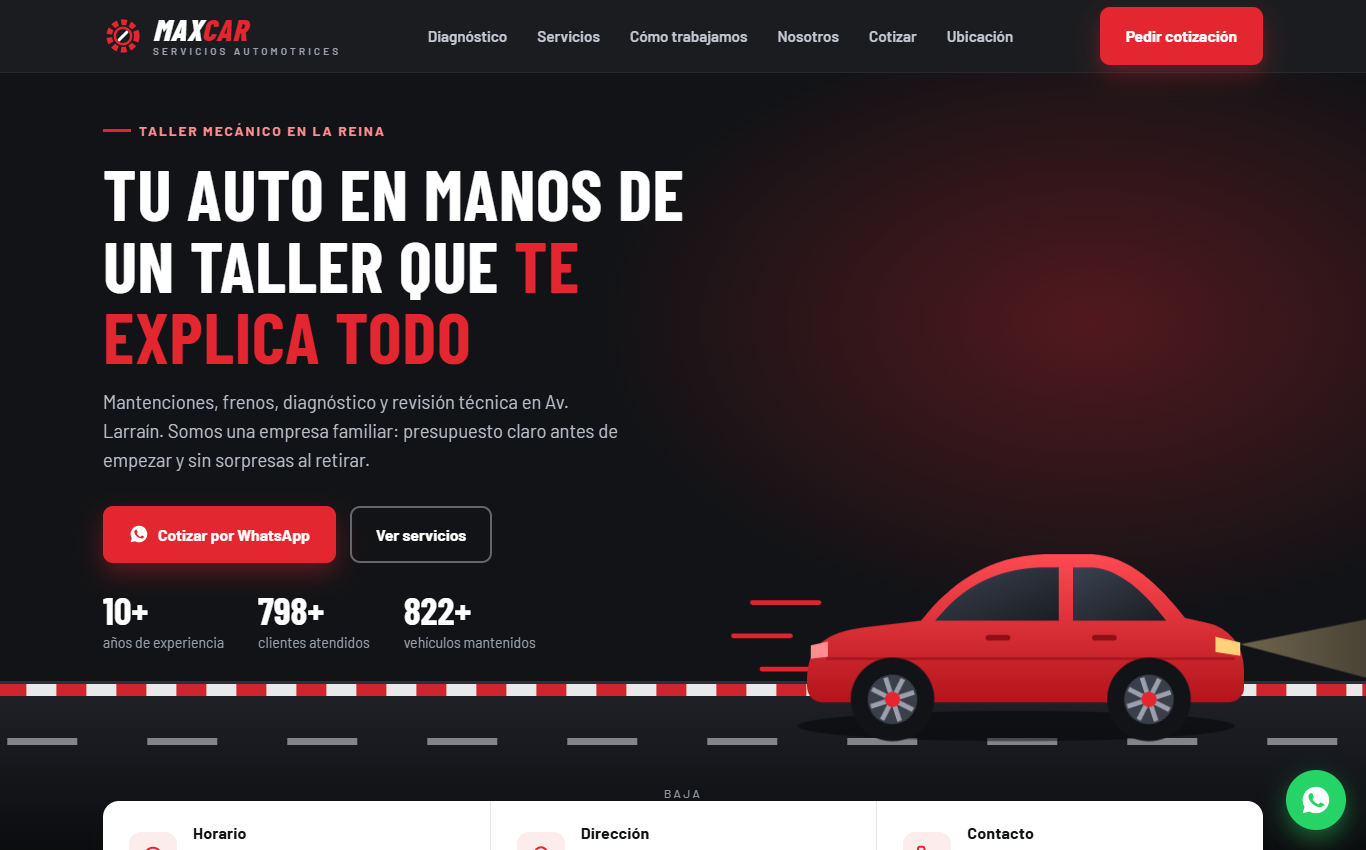
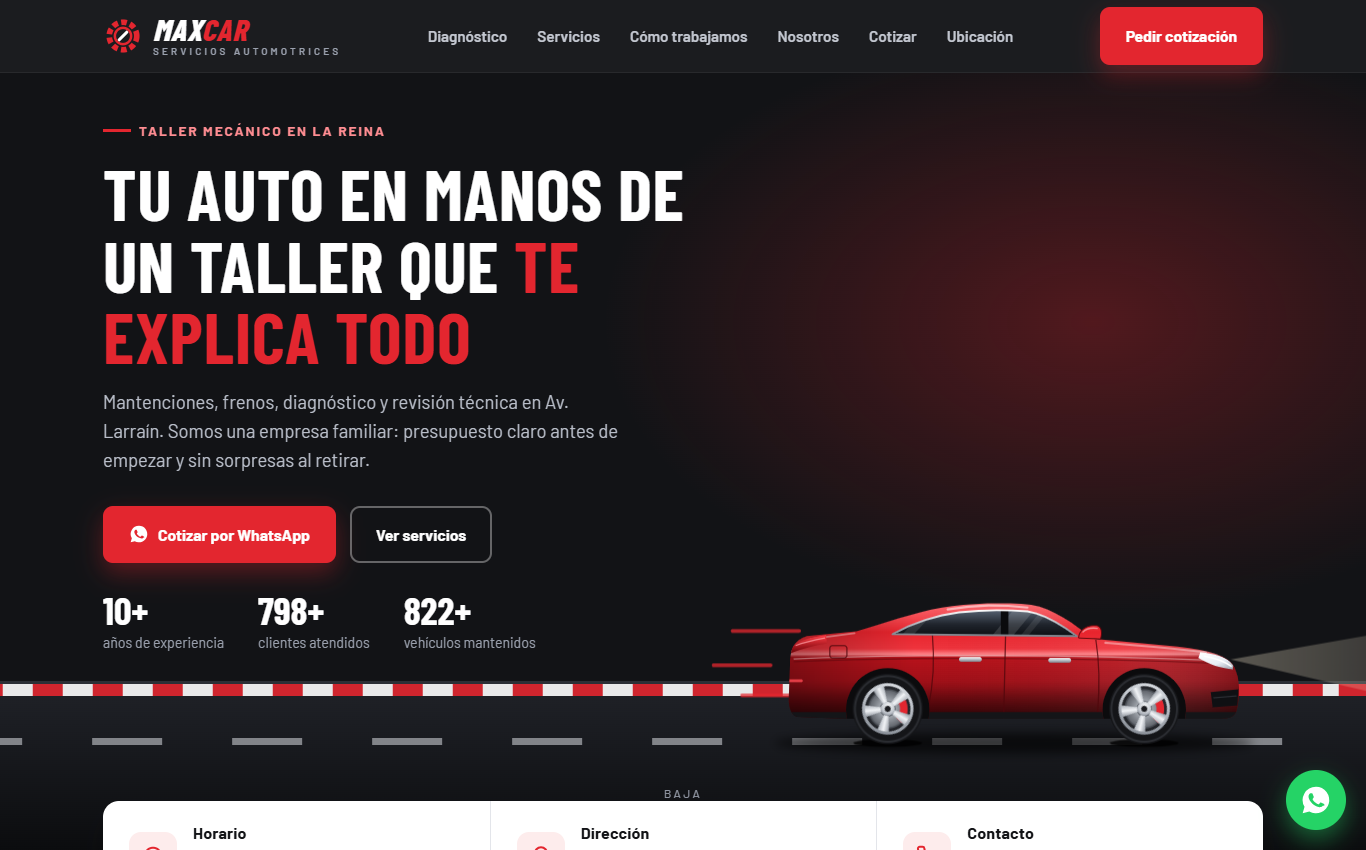
Dibujar un auto realista en la demo de MaxCar
El auto de la portada, del diagnóstico y del camino del proceso pasa a
tener proporciones de sedán, pintura con reflejos, vidrios polarizados,
llantas de aleación y frenos a la vista. Se reubican los puntos del
diagnóstico y se actualizan la imagen Open Graph y las capturas del
comparador.

Changed region(s): [[0.0, 0.6424, 1.0, 0.8871]]

diff --git a/demos/maxcar/index.html b/demos/maxcar/index.html
@@ -20,7 +20,7 @@
   <meta property="og:image:type" content="image/png">
   <meta property="og:image:width" content="1200">
   <meta property="og:image:height" content="630">
-  <meta property="og:image:alt" content="Demo de página web para MaxCar, con un auto rojo ilustrado.">
+  <meta property="og:image:alt" content="Demo de página web para MaxCar, con un auto rojo en la carretera.">
   <meta name="twitter:card" content="summary_large_image">
   <meta name="twitter:title" content="MaxCar: así se vería su nueva página web">
   <meta name="twitter:description" content="Propuesta de BenedettoWebs para el taller MaxCar de La Reina.">
@@ -399,36 +399,101 @@
         </div>
 
         <div class="auto">
-          <svg viewBox="0 0 560 360" role="img" aria-label="Ilustración de un auto rojo andando por la carretera">
+          <svg viewBox="0 0 560 360" role="img" aria-label="Auto rojo andando por la carretera">
             <defs>
-              <linearGradient id="carro" x1="0" y1="0" x2="0" y2="1"><stop offset="0" stop-color="#ff4a52"/><stop offset="1" stop-color="#b3141b"/></linearGradient>
-              <linearGradient id="vidrio" x1="0" y1="0" x2="1" y2="1"><stop offset="0" stop-color="#3a4250"/><stop offset="1" stop-color="#1a1d23"/></linearGradient>
-              <linearGradient id="haz" x1="0" y1="0" x2="1" y2="0"><stop offset="0" stop-color="#ffe2a0" stop-opacity=".55"/><stop offset="1" stop-color="#ffe2a0" stop-opacity="0"/></linearGradient>
+              <linearGradient id="h-pintura" gradientUnits="userSpaceOnUse" x1="0" y1="166" x2="0" y2="292">
+                <stop offset="0" stop-color="#ff7076"/><stop offset=".26" stop-color="#e8242d"/><stop offset=".4" stop-color="#ef343d"/>
+                <stop offset=".445" stop-color="#ff8287"/><stop offset=".47" stop-color="#b8121b"/><stop offset=".72" stop-color="#9a0f17"/><stop offset="1" stop-color="#4a0509"/>
+              </linearGradient>
+              <linearGradient id="h-costado" x1="0" y1="0" x2="1" y2="0">
+                <stop offset="0" stop-color="#000" stop-opacity=".32"/><stop offset=".3" stop-color="#000" stop-opacity="0"/>
+                <stop offset=".72" stop-color="#fff" stop-opacity=".06"/><stop offset="1" stop-color="#000" stop-opacity=".25"/>
+              </linearGradient>
+              <linearGradient id="h-bajo" x1="0" y1="0" x2="0" y2="1"><stop offset="0" stop-color="#000" stop-opacity="0"/><stop offset="1" stop-color="#000" stop-opacity=".45"/></linearGradient>
+              <linearGradient id="h-vidrio" x1="0" y1="0" x2="0" y2="1"><stop offset="0" stop-color="#55606f"/><stop offset=".55" stop-color="#1f242c"/><stop offset="1" stop-color="#0c0e12"/></linearGradient>
+              <linearGradient id="h-cromo" x1="0" y1="0" x2="0" y2="1"><stop offset="0" stop-color="#fff"/><stop offset=".5" stop-color="#b9bec6"/><stop offset="1" stop-color="#7d838c"/></linearGradient>
+              <linearGradient id="h-faro" x1="0" y1="0" x2="1" y2="1"><stop offset="0" stop-color="#fff"/><stop offset=".6" stop-color="#e9eef5"/><stop offset="1" stop-color="#9aa3af"/></linearGradient>
+              <linearGradient id="h-trasera" x1="0" y1="0" x2="0" y2="1"><stop offset="0" stop-color="#ff3c45"/><stop offset="1" stop-color="#6a0006"/></linearGradient>
+              <radialGradient id="h-llanta" cx=".4" cy=".35" r=".75"><stop offset="0" stop-color="#fafbfc"/><stop offset=".6" stop-color="#c3c8cf"/><stop offset="1" stop-color="#7c828b"/></radialGradient>
+              <linearGradient id="h-rayo" x1="0" y1="0" x2="1" y2="0"><stop offset="0" stop-color="#8b919a"/><stop offset=".5" stop-color="#f1f3f6"/><stop offset="1" stop-color="#a7adb5"/></linearGradient>
+              <radialGradient id="h-disco"><stop offset=".45" stop-color="#9ba0a7"/><stop offset="1" stop-color="#5d6168"/></radialGradient>
+              <clipPath id="h-recorte"><path d="M70 288 C62 286 60 276 61 262 L62 234 C62 217 66 207 80 203 L132 198 C160 190 192 178 222 173 C250 168 290 167 316 170 C340 174 360 190 382 206 L470 214 C505 218 524 224 530 236 C536 248 536 266 532 282 C530 288 524 290 516 290 L478 290 A44 44 0 1 0 392 290 L208 290 A44 44 0 1 0 122 290 Z"/></clipPath>
+              <clipPath id="h-cristal"><path d="M170 201 C192 189 216 181 240 178 C262 176 292 175 312 177 C330 180 348 191 364 203 Z"/></clipPath>
+              <filter id="h-difuso" x="-20%" y="-300%" width="140%" height="700%"><feGaussianBlur stdDeviation="5"/></filter>
+              <linearGradient id="h-haz" x1="0" y1="0" x2="1" y2="0"><stop offset="0" stop-color="#fff3d6" stop-opacity=".5"/><stop offset="1" stop-color="#fff3d6" stop-opacity="0"/></linearGradient>
             </defs>
-            <path class="luz" d="M536 214 L 860 150 L 860 300 Z" fill="url(#haz)"/>
-            <g class="lineas" stroke="#e3262f" stroke-width="5" stroke-linecap="round" opacity=".7">
-              <path d="M20 170h70M0 205h60M30 240h50"/>
-            </g>
-            <ellipse cx="300" cy="300" rx="230" ry="16" fill="#000" opacity=".45"/>
+            <path class="luz" d="M526 230 L 880 168 L 880 312 Z" fill="url(#h-haz)"/>
+            <g class="lineas" stroke="#e3262f" stroke-width="4" stroke-linecap="round" opacity=".7"><path d="M10 200h70M-10 236h60M20 268h50"/></g>
+            <ellipse cx="298" cy="318" rx="252" ry="11" fill="#000" opacity=".6" filter="url(#h-difuso)"/>
+            <ellipse cx="165" cy="318" rx="36" ry="4" fill="#000" opacity=".8"/><ellipse cx="435" cy="318" rx="36" ry="4" fill="#000" opacity=".8"/>
             <g class="carroceria">
-            <!-- Carrocería -->
-            <path d="M80 250 C 80 215, 100 200, 140 195 L 200 188 C 230 150, 270 120, 330 118 L 380 118 C 420 120, 450 150, 478 185 L 500 190 C 525 195, 540 215, 540 240 L 540 258 C 540 268, 532 274, 522 274 L 96 274 C 86 274, 80 266, 80 256 Z" fill="url(#carro)"/>
-            <path d="M215 188 C 240 156, 275 134, 325 132 L 345 132 L 345 188 Z" fill="url(#vidrio)"/>
-            <path d="M360 132 L 380 132 C 410 134, 435 158, 458 188 L 360 188 Z" fill="url(#vidrio)"/>
-            <path d="M100 228 H530" stroke="#8f0f15" stroke-width="3" opacity=".6"/>
-            <rect x="380" y="203" width="26" height="6" rx="3" fill="#8f0f15"/>
-            <rect x="268" y="203" width="26" height="6" rx="3" fill="#8f0f15"/>
-            <path d="M510 205 l26 6 v14 l-26 -4z" fill="#ffd27a"/>
-            <path d="M84 214 l18 -4 v16 l-18 2z" fill="#ff8d92"/>
+              <path d="M119.7 290 A46 46 0 1 1 210.3 290 Z" fill="#0b0b0d"/><path d="M389.7 290 A46 46 0 1 1 480.3 290 Z" fill="#0b0b0d"/>
+              <path d="M70 288 C62 286 60 276 61 262 L62 234 C62 217 66 207 80 203 L132 198 C160 190 192 178 222 173 C250 168 290 167 316 170 C340 174 360 190 382 206 L470 214 C505 218 524 224 530 236 C536 248 536 266 532 282 C530 288 524 290 516 290 L478 290 A44 44 0 1 0 392 290 L208 290 A44 44 0 1 0 122 290 Z" fill="url(#h-pintura)"/>
+              <g clip-path="url(#h-recorte)">
+                <rect x="40" y="160" width="510" height="140" fill="url(#h-costado)"/>
+                <rect x="40" y="250" width="510" height="42" fill="url(#h-bajo)"/>
+                <path d="M66 227 C180 222 360 222 520 229" fill="none" stroke="#fff" stroke-opacity=".4" stroke-width="1.4"/>
+                <path d="M66 230 C180 225 360 225 520 232" fill="none" stroke="#5c060b" stroke-opacity=".55" stroke-width="1.4"/>
+                <path d="M228 175 C258 170 290 170 312 173" fill="none" stroke="#fff" stroke-opacity=".55" stroke-width="2.2" stroke-linecap="round"/>
+                <path d="M394 210 C430 213 468 216 500 220" fill="none" stroke="#fff" stroke-opacity=".4" stroke-width="2.2" stroke-linecap="round"/>
+                <path d="M84 206 L130 200" stroke="#fff" stroke-opacity=".35" stroke-width="2" stroke-linecap="round"/>
+                <g fill="none" stroke="#4f050a" stroke-opacity=".75" stroke-width="1.4">
+                  <path d="M384 207 C388 232 388 258 386 284"/>
+                  <path d="M289 203 L287 290"/>
+                  <path d="M212 201 C214 225 214 248 208 278"/>
+                  <rect x="104" y="213" width="18" height="13" rx="3"/>
+                </g>
+                <path d="M65 214 C70 208 82 205 100 202 L101 211 C88 213 76 216 63 221 Z" fill="url(#h-trasera)"/>
+                <path d="M68 213 C78 209 88 207 99 205" stroke="#ff9aa0" stroke-width="1.2" fill="none" opacity=".8"/>
+                <path d="M494 220 C508 221 522 225 529 233 L528 238 C516 237 503 233 492 226 Z" fill="url(#h-faro)"/>
+                <path d="M498 224 C510 226 520 230 527 235" stroke="#fff" stroke-width="1.6" fill="none"/>
+                <path d="M505 262 L534 259 L533 276 L507 278 Z" fill="#0f1013"/>
+                <path d="M508 268 L532 266" stroke="#2c2f35" stroke-width="1.2"/>
+                <rect x="40" y="283" width="510" height="10" fill="#141518"/>
+                <path d="M62 250 L74 250" stroke="#ff4a52" stroke-width="3" stroke-linecap="round" opacity=".8"/>
+              </g>
+              <path d="M170 201 C192 189 216 181 240 178 C262 176 292 175 312 177 C330 180 348 191 364 203 Z" fill="url(#h-vidrio)"/>
+              <g clip-path="url(#h-cristal)" fill="#fff">
+                <path d="M300 172 L322 172 L294 206 L272 206 Z" opacity=".13"/>
+                <path d="M330 172 L338 172 L310 206 L302 206 Z" opacity=".09"/>
+                <path d="M198 182 L210 182 L188 206 L176 206 Z" opacity=".1"/>
+              </g>
+              <rect x="284" y="170" width="8" height="40" fill="#0a0b0d" clip-path="url(#h-cristal)"/>
+              <path d="M170 201 C192 189 216 181 240 178 C262 176 292 175 312 177 C330 180 348 191 364 203 Z" fill="none" stroke="url(#h-cromo)" stroke-width="2" stroke-linejoin="round"/>
+              <rect x="334" y="226" width="24" height="5" rx="2.5" fill="url(#h-cromo)"/>
+              <rect x="240" y="225" width="24" height="5" rx="2.5" fill="url(#h-cromo)"/>
+              <path d="M366 205 C366 197 374 191 385 192 C390 193 391 199 389 206 Z" fill="url(#h-pintura)" stroke="#5c060b" stroke-width="1"/>
+              <path d="M370 199 C374 195 380 194 386 195" stroke="#fff" stroke-opacity=".45" stroke-width="1.4" fill="none"/>
             </g>
-            <!-- Ruedas -->
             <g>
-              <circle cx="170" cy="272" r="44" fill="#121316"/>
-              <g class="rueda"><circle cx="170" cy="272" r="26" fill="#3a3f49"/><path d="M170 248v48M146 272h48M153 255l34 34M187 255l-34 34" stroke="#9aa0ad" stroke-width="5"/><circle cx="170" cy="272" r="8" fill="#e3262f"/></g>
+              <circle cx="165" cy="282" r="37" fill="#141518"/>
+              <circle cx="165" cy="282" r="34.5" fill="none" stroke="#2b2d32" stroke-width="2"/>
+              <circle cx="165" cy="282" r="27" fill="#24262b"/>
+              <circle cx="165" cy="282" r="20" fill="url(#h-disco)" stroke="#4a4e55" stroke-width="1.5"/>
+              <circle cx="165" cy="282" r="8" fill="#3b3f46"/>
+              <path d="M179.85 267.15 A21 21 0 0 1 179.85 296.85 L174.19 291.19 A13 13 0 0 0 174.19 272.81 Z" fill="#e3262f"/>
+              <g class="rueda"><g transform="translate(165 282)">
+                <circle r="27" fill="transparent"/>
+                <path transform="rotate(0)" d="M-2.4 -7 L-6.5 -24.5 Q0 -26.5 6.5 -24.5 L2.4 -7 Z" fill="url(#h-rayo)"/><path transform="rotate(72)" d="M-2.4 -7 L-6.5 -24.5 Q0 -26.5 6.5 -24.5 L2.4 -7 Z" fill="url(#h-rayo)"/><path transform="rotate(144)" d="M-2.4 -7 L-6.5 -24.5 Q0 -26.5 6.5 -24.5 L2.4 -7 Z" fill="url(#h-rayo)"/><path transform="rotate(216)" d="M-2.4 -7 L-6.5 -24.5 Q0 -26.5 6.5 -24.5 L2.4 -7 Z" fill="url(#h-rayo)"/><path transform="rotate(288)" d="M-2.4 -7 L-6.5 -24.5 Q0 -26.5 6.5 -24.5 L2.4 -7 Z" fill="url(#h-rayo)"/>
+                <circle r="25.5" fill="none" stroke="url(#h-llanta)" stroke-width="3.2"/>
+                <circle r="7.5" fill="url(#h-llanta)"/>
+                <circle r="3.2" fill="#1b1c20"/>
+              </g></g>
             </g>
             <g>
-              <circle cx="440" cy="272" r="44" fill="#121316"/>
-              <g class="rueda"><circle cx="440" cy="272" r="26" fill="#3a3f49"/><path d="M440 248v48M416 272h48M423 255l34 34M457 255l-34 34" stroke="#9aa0ad" stroke-width="5"/><circle cx="440" cy="272" r="8" fill="#e3262f"/></g>
+              <circle cx="435" cy="282" r="37" fill="#141518"/>
+              <circle cx="435" cy="282" r="34.5" fill="none" stroke="#2b2d32" stroke-width="2"/>
+              <circle cx="435" cy="282" r="27" fill="#24262b"/>
+              <circle cx="435" cy="282" r="20" fill="url(#h-disco)" stroke="#4a4e55" stroke-width="1.5"/>
+              <circle cx="435" cy="282" r="8" fill="#3b3f46"/>
+              <path d="M449.85 267.15 A21 21 0 0 1 449.85 296.85 L444.19 291.19 A13 13 0 0 0 444.19 272.81 Z" fill="#e3262f"/>
+              <g class="rueda"><g transform="translate(435 282)">
+                <circle r="27" fill="transparent"/>
+                <path transform="rotate(0)" d="M-2.4 -7 L-6.5 -24.5 Q0 -26.5 6.5 -24.5 L2.4 -7 Z" fill="url(#h-rayo)"/><path transform="rotate(72)" d="M-2.4 -7 L-6.5 -24.5 Q0 -26.5 6.5 -24.5 L2.4 -7 Z" fill="url(#h-rayo)"/><path transform="rotate(144)" d="M-2.4 -7 L-6.5 -24.5 Q0 -26.5 6.5 -24.5 L2.4 -7 Z" fill="url(#h-rayo)"/><path transform="rotate(216)" d="M-2.4 -7 L-6.5 -24.5 Q0 -26.5 6.5 -24.5 L2.4 -7 Z" fill="url(#h-rayo)"/><path transform="rotate(288)" d="M-2.4 -7 L-6.5 -24.5 Q0 -26.5 6.5 -24.5 L2.4 -7 Z" fill="url(#h-rayo)"/>
+                <circle r="25.5" fill="none" stroke="url(#h-llanta)" stroke-width="3.2"/>
+                <circle r="7.5" fill="url(#h-llanta)"/>
+                <circle r="3.2" fill="#1b1c20"/>
+              </g></g>
             </g>
           </svg>
         </div>
@@ -463,27 +528,107 @@
         <div class="diag-grid">
           <div class="diag-auto aparece">
             <svg viewBox="0 0 560 360" aria-hidden="true">
-              <defs>
-                <linearGradient id="dcarro" x1="0" y1="0" x2="0" y2="1"><stop offset="0" stop-color="#ff4a52"/><stop offset="1" stop-color="#b3141b"/></linearGradient>
-                <linearGradient id="dvidrio" x1="0" y1="0" x2="1" y2="1"><stop offset="0" stop-color="#3a4250"/><stop offset="1" stop-color="#1a1d23"/></linearGradient>
-              </defs>
-              <ellipse cx="300" cy="306" rx="240" ry="14" fill="#000" opacity=".12"/>
-              <path d="M80 250 C 80 215, 100 200, 140 195 L 200 188 C 230 150, 270 120, 330 118 L 380 118 C 420 120, 450 150, 478 185 L 500 190 C 525 195, 540 215, 540 240 L 540 258 C 540 268, 532 274, 522 274 L 96 274 C 86 274, 80 266, 80 256 Z" fill="url(#dcarro)"/>
-              <path d="M215 188 C 240 156, 275 134, 325 132 L 345 132 L 345 188 Z" fill="url(#dvidrio)"/>
-              <path d="M360 132 L 380 132 C 410 134, 435 158, 458 188 L 360 188 Z" fill="url(#dvidrio)"/>
-              <path d="M100 228 H530" stroke="#8f0f15" stroke-width="3" opacity=".6"/>
-              <path d="M352 192 V270" stroke="#8f0f15" stroke-width="2" opacity=".5"/>
-              <rect x="380" y="203" width="26" height="6" rx="3" fill="#8f0f15"/><rect x="268" y="203" width="26" height="6" rx="3" fill="#8f0f15"/>
-              <path d="M510 205 l26 6 v14 l-26 -4z" fill="#ffd27a"/><path d="M84 214 l18 -4 v16 l-18 2z" fill="#ff8d92"/>
-              <circle cx="170" cy="272" r="44" fill="#121316"/><circle cx="170" cy="272" r="26" fill="#3a3f49"/><path d="M170 248v48M146 272h48M153 255l34 34M187 255l-34 34" stroke="#9aa0ad" stroke-width="5"/><circle cx="170" cy="272" r="8" fill="#e3262f"/>
-              <circle cx="440" cy="272" r="44" fill="#121316"/><circle cx="440" cy="272" r="26" fill="#3a3f49"/><path d="M440 248v48M416 272h48M423 255l34 34M457 255l-34 34" stroke="#9aa0ad" stroke-width="5"/><circle cx="440" cy="272" r="8" fill="#e3262f"/>
-            </svg>
-            <button type="button" class="punto" data-parte="chequeo" style="left:58%;top:38%" aria-label="Chequeo general y pre-compra"><span>+</span></button>
-            <button type="button" class="punto" data-parte="motor" style="left:84%;top:52%" aria-label="Motor y aceite"><span>+</span></button>
-            <button type="button" class="punto" data-parte="electrico" style="left:95%;top:62%" aria-label="Luces y sistema eléctrico"><span>+</span></button>
-            <button type="button" class="punto" data-parte="carroceria" style="left:45%;top:62%" aria-label="Carrocería y pintura"><span>+</span></button>
-            <button type="button" class="punto" data-parte="frenos" style="left:78.6%;top:75.5%" aria-label="Frenos y suspensión"><span>+</span></button>
-            <button type="button" class="punto" data-parte="neumaticos" style="left:30.4%;top:75.5%" aria-label="Neumáticos y tren delantero"><span>+</span></button>
+            <defs>
+              <linearGradient id="d-pintura" gradientUnits="userSpaceOnUse" x1="0" y1="166" x2="0" y2="292">
+                <stop offset="0" stop-color="#ff7076"/><stop offset=".26" stop-color="#e8242d"/><stop offset=".4" stop-color="#ef343d"/>
+                <stop offset=".445" stop-color="#ff8287"/><stop offset=".47" stop-color="#b8121b"/><stop offset=".72" stop-color="#9a0f17"/><stop offset="1" stop-color="#4a0509"/>
+              </linearGradient>
+              <linearGradient id="d-costado" x1="0" y1="0" x2="1" y2="0">
+                <stop offset="0" stop-color="#000" stop-opacity=".32"/><stop offset=".3" stop-color="#000" stop-opacity="0"/>
+                <stop offset=".72" stop-color="#fff" stop-opacity=".06"/><stop offset="1" stop-color="#000" stop-opacity=".25"/>
+              </linearGradient>
+              <linearGradient id="d-bajo" x1="0" y1="0" x2="0" y2="1"><stop offset="0" stop-color="#000" stop-opacity="0"/><stop offset="1" stop-color="#000" stop-opacity=".45"/></linearGradient>
+              <linearGradient id="d-vidrio" x1="0" y1="0" x2="0" y2="1"><stop offset="0" stop-color="#55606f"/><stop offset=".55" stop-color="#1f242c"/><stop offset="1" stop-color="#0c0e12"/></linearGradient>
+              <linearGradient id="d-cromo" x1="0" y1="0" x2="0" y2="1"><stop offset="0" stop-color="#fff"/><stop offset=".5" stop-color="#b9bec6"/><stop offset="1" stop-color="#7d838c"/></linearGradient>
+              <linearGradient id="d-faro" x1="0" y1="0" x2="1" y2="1"><stop offset="0" stop-color="#fff"/><stop offset=".6" stop-color="#e9eef5"/><stop offset="1" stop-color="#9aa3af"/></linearGradient>
+              <linearGradient id="d-trasera" x1="0" y1="0" x2="0" y2="1"><stop offset="0" stop-color="#ff3c45"/><stop offset="1" stop-color="#6a0006"/></linearGradient>
+              <radialGradient id="d-llanta" cx=".4" cy=".35" r=".75"><stop offset="0" stop-color="#fafbfc"/><stop offset=".6" stop-color="#c3c8cf"/><stop offset="1" stop-color="#7c828b"/></radialGradient>
+              <linearGradient id="d-rayo" x1="0" y1="0" x2="1" y2="0"><stop offset="0" stop-color="#8b919a"/><stop offset=".5" stop-color="#f1f3f6"/><stop offset="1" stop-color="#a7adb5"/></linearGradient>
+              <radialGradient id="d-disco"><stop offset=".45" stop-color="#9ba0a7"/><stop offset="1" stop-color="#5d6168"/></radialGradient>
+              <clipPath id="d-recorte"><path d="M70 288 C62 286 60 276 61 262 L62 234 C62 217 66 207 80 203 L132 198 C160 190 192 178 222 173 C250 168 290 167 316 170 C340 174 360 190 382 206 L470 214 C505 218 524 224 530 236 C536 248 536 266 532 282 C530 288 524 290 516 290 L478 290 A44 44 0 1 0 392 290 L208 290 A44 44 0 1 0 122 290 Z"/></clipPath>
+              <clipPath id="d-cristal"><path d="M170 201 C192 189 216 181 240 178 C262 176 292 175 312 177 C330 180 348 191 364 203 Z"/></clipPath>
+              <filter id="d-difuso" x="-20%" y="-300%" width="140%" height="700%"><feGaussianBlur stdDeviation="5"/></filter>
+              
+            </defs>
+            
+            <ellipse cx="298" cy="318" rx="252" ry="11" fill="#000" opacity=".22" filter="url(#d-difuso)"/>
+            <ellipse cx="165" cy="318" rx="36" ry="4" fill="#000" opacity=".35"/><ellipse cx="435" cy="318" rx="36" ry="4" fill="#000" opacity=".35"/>
+            <g>
+              <path d="M119.7 290 A46 46 0 1 1 210.3 290 Z" fill="#0b0b0d"/><path d="M389.7 290 A46 46 0 1 1 480.3 290 Z" fill="#0b0b0d"/>
+              <path d="M70 288 C62 286 60 276 61 262 L62 234 C62 217 66 207 80 203 L132 198 C160 190 192 178 222 173 C250 168 290 167 316 170 C340 174 360 190 382 206 L470 214 C505 218 524 224 530 236 C536 248 536 266 532 282 C530 288 524 290 516 290 L478 290 A44 44 0 1 0 392 290 L208 290 A44 44 0 1 0 122 290 Z" fill="url(#d-pintura)"/>
+              <g clip-path="url(#d-recorte)">
+                <rect x="40" y="160" width="510" height="140" fill="url(#d-costado)"/>
+                <rect x="40" y="250" width="510" height="42" fill="url(#d-bajo)"/>
+                <path d="M66 227 C180 222 360 222 520 229" fill="none" stroke="#fff" stroke-opacity=".4" stroke-width="1.4"/>
+                <path d="M66 230 C180 225 360 225 520 232" fill="none" stroke="#5c060b" stroke-opacity=".55" stroke-width="1.4"/>
+                <path d="M228 175 C258 170 290 170 312 173" fill="none" stroke="#fff" stroke-opacity=".55" stroke-width="2.2" stroke-linecap="round"/>
+                <path d="M394 210 C430 213 468 216 500 220" fill="none" stroke="#fff" stroke-opacity=".4" stroke-width="2.2" stroke-linecap="round"/>
+                <path d="M84 206 L130 200" stroke="#fff" stroke-opacity=".35" stroke-width="2" stroke-linecap="round"/>
+                <g fill="none" stroke="#4f050a" stroke-opacity=".75" stroke-width="1.4">
+                  <path d="M384 207 C388 232 388 258 386 284"/>
+                  <path d="M289 203 L287 290"/>
+                  <path d="M212 201 C214 225 214 248 208 278"/>
+                  <rect x="104" y="213" width="18" height="13" rx="3"/>
+                </g>
+                <path d="M65 214 C70 208 82 205 100 202 L101 211 C88 213 76 216 63 221 Z" fill="url(#d-trasera)"/>
+                <path d="M68 213 C78 209 88 207 99 205" stroke="#ff9aa0" stroke-width="1.2" fill="none" opacity=".8"/>
+                <path d="M494 220 C508 221 522 225 529 233 L528 238 C516 237 503 233 492 226 Z" fill="url(#d-faro)"/>
+                <path d="M498 224 C510 226 520 230 527 235" stroke="#fff" stroke-width="1.6" fill="none"/>
+                <path d="M505 262 L534 259 L533 276 L507 278 Z" fill="#0f1013"/>
+                <path d="M508 268 L532 266" stroke="#2c2f35" stroke-width="1.2"/>
+                <rect x="40" y="283" width="510" height="10" fill="#141518"/>
+                <path d="M62 250 L74 250" stroke="#ff4a52" stroke-width="3" stroke-linecap="round" opacity=".8"/>
+              </g>
+              <path d="M170 201 C192 189 216 181 240 178 C262 176 292 175 312 177 C330 180 348 191 364 203 Z" fill="url(#d-vidrio)"/>
+              <g clip-path="url(#d-cristal)" fill="#fff">
+                <path d="M300 172 L322 172 L294 206 L272 206 Z" opacity=".13"/>
+                <path d="M330 172 L338 172 L310 206 L302 206 Z" opacity=".09"/>
+                <path d="M198 182 L210 182 L188 206 L176 206 Z" opacity=".1"/>
+              </g>
+              <rect x="284" y="170" width="8" height="40" fill="#0a0b0d" clip-path="url(#d-cristal)"/>
+              <path d="M170 201 C192 189 216 181 240 178 C262 176 292 175 312 177 C330 180 348 191 364 203 Z" fill="none" stroke="url(#d-cromo)" stroke-width="2" stroke-linejoin="round"/>
+              <rect x="334" y="226" width="24" height="5" rx="2.5" fill="url(#d-cromo)"/>
+              <rect x="240" y="225" width="24" height="5" rx="2.5" fill="url(#d-cromo)"/>
+              <path d="M366 205 C366 197 374 191 385 192 C390 193 391 199 389 206 Z" fill="url(#d-pintura)" stroke="#5c060b" stroke-width="1"/>
+              <path d="M370 199 C374 195 380 194 386 195" stroke="#fff" stroke-opacity=".45" stroke-width="1.4" fill="none"/>
+            </g>
+            <g>
+              <circle cx="165" cy="282" r="37" fill="#141518"/>
+              <circle cx="165" cy="282" r="34.5" fill="none" stroke="#2b2d32" stroke-width="2"/>
+              <circle cx="165" cy="282" r="27" fill="#24262b"/>
+              <circle cx="165" cy="282" r="20" fill="url(#d-disco)" stroke="#4a4e55" stroke-width="1.5"/>
+              <circle cx="165" cy="282" r="8" fill="#3b3f46"/>
+              <path d="M179.85 267.15 A21 21 0 0 1 179.85 296.85 L174.19 291.19 A13 13 0 0 0 174.19 272.81 Z" fill="#e3262f"/>
+              <g><g transform="translate(165 282)">
+                <circle r="27" fill="transparent"/>
+                <path transform="rotate(0)" d="M-2.4 -7 L-6.5 -24.5 Q0 -26.5 6.5 -24.5 L2.4 -7 Z" fill="url(#d-rayo)"/><path transform="rotate(72)" d="M-2.4 -7 L-6.5 -24.5 Q0 -26.5 6.5 -24.5 L2.4 -7 Z" fill="url(#d-rayo)"/><path transform="rotate(144)" d="M-2.4 -7 L-6.5 -24.5 Q0 -26.5 6.5 -24.5 L2.4 -7 Z" fill="url(#d-rayo)"/><path transform="rotate(216)" d="M-2.4 -7 L-6.5 -24.5 Q0 -26.5 6.5 -24.5 L2.4 -7 Z" fill="url(#d-rayo)"/><path transform="rotate(288)" d="M-2.4 -7 L-6.5 -24.5 Q0 -26.5 6.5 -24.5 L2.4 -7 Z" fill="url(#d-rayo)"/>
+                <circle r="25.5" fill="none" stroke="url(#d-llanta)" stroke-width="3.2"/>
+                <circle r="7.5" fill="url(#d-llanta)"/>
+                <circle r="3.2" fill="#1b1c20"/>
+              </g></g>
+            </g>
+            <g>
+              <circle cx="435" cy="282" r="37" fill="#141518"/>
+              <circle cx="435" cy="282" r="34.5" fill="none" stroke="#2b2d32" stroke-width="2"/>
+              <circle cx="435" cy="282" r="27" fill="#24262b"/>
+              <circle cx="435" cy="282" r="20" fill="url(#d-disco)" stroke="#4a4e55" stroke-width="1.5"/>
+              <circle cx="435" cy="282" r="8" fill="#3b3f46"/>
+              <path d="M449.85 267.15 A21 21 0 0 1 449.85 296.85 L444.19 291.19 A13 13 0 0 0 444.19 272.81 Z" fill="#e3262f"/>
+              <g><g transform="translate(435 282)">
+                <circle r="27" fill="transparent"/>
+                <path transform="rotate(0)" d="M-2.4 -7 L-6.5 -24.5 Q0 -26.5 6.5 -24.5 L2.4 -7 Z" fill="url(#d-rayo)"/><path transform="rotate(72)" d="M-2.4 -7 L-6.5 -24.5 Q0 -26.5 6.5 -24.5 L2.4 -7 Z" fill="url(#d-rayo)"/><path transform="rotate(144)" d="M-2.4 -7 L-6.5 -24.5 Q0 -26.5 6.5 -24.5 L2.4 -7 Z" fill="url(#d-rayo)"/><path transform="rotate(216)" d="M-2.4 -7 L-6.5 -24.5 Q0 -26.5 6.5 -24.5 L2.4 -7 Z" fill="url(#d-rayo)"/><path transform="rotate(288)" d="M-2.4 -7 L-6.5 -24.5 Q0 -26.5 6.5 -24.5 L2.4 -7 Z" fill="url(#d-rayo)"/>
+                <circle r="25.5" fill="none" stroke="url(#d-llanta)" stroke-width="3.2"/>
+                <circle r="7.5" fill="url(#d-llanta)"/>
+                <circle r="3.2" fill="#1b1c20"/>
+              </g></g>
+            </g>
+          </svg>
+            <button type="button" class="punto" data-parte="chequeo" style="left:53.6%;top:52.8%" aria-label="Chequeo general y pre-compra"><span>+</span></button>
+            <button type="button" class="punto" data-parte="motor" style="left:80.7%;top:62.8%" aria-label="Motor y aceite"><span>+</span></button>
+            <button type="button" class="punto" data-parte="electrico" style="left:92.1%;top:63.9%" aria-label="Luces y sistema eléctrico"><span>+</span></button>
+            <button type="button" class="punto" data-parte="carroceria" style="left:45.0%;top:70.6%" aria-label="Carrocería y pintura"><span>+</span></button>
+            <button type="button" class="punto" data-parte="frenos" style="left:77.7%;top:78.3%" aria-label="Frenos y suspensión"><span>+</span></button>
+            <button type="button" class="punto" data-parte="neumaticos" style="left:29.5%;top:78.3%" aria-label="Neumáticos y tren delantero"><span>+</span></button>
           </div>
           <div class="diag-panel aparece" id="diag-panel" aria-live="polite">
             <span class="diag-pista">👆 Toca uno de los puntos rojos</span>
@@ -536,7 +681,7 @@
         </div>
         <div class="camino" id="camino">
           <div class="ruta" aria-hidden="true"><div class="ruta-llena"></div>
-            <div class="autito"><svg width="44" height="26" viewBox="0 0 44 26"><path d="M3 18c0-3 2-5 6-5l5-1c3-5 7-8 13-8h3c5 0 8 4 10 8 2 1 3 3 3 5v2c0 1-1 2-2 2H5c-1 0-2-1-2-2z" fill="#e3262f"/><path d="M16 12c2-4 6-6 10-6v6zM29 6c3 0 5 3 7 6h-7z" fill="#1c1e23"/><circle cx="12" cy="21" r="4.5" fill="#121316"/><circle cx="33" cy="21" r="4.5" fill="#121316"/></svg></div>
+            <div class="autito"><svg width="44" height="16" viewBox="56 164 482 160" aria-hidden="true"><path d="M70 288 C62 286 60 276 61 262 L62 234 C62 217 66 207 80 203 L132 198 C160 190 192 178 222 173 C250 168 290 167 316 170 C340 174 360 190 382 206 L470 214 C505 218 524 224 530 236 C536 248 536 266 532 282 C530 288 524 290 516 290 L478 290 A44 44 0 1 0 392 290 L208 290 A44 44 0 1 0 122 290 Z" fill="#e3262f"/><path d="M170 201 C192 189 216 181 240 178 C262 176 292 175 312 177 C330 180 348 191 364 203 Z" fill="#1c1e23"/><circle cx="165" cy="282" r="37" fill="#121316"/><circle cx="435" cy="282" r="37" fill="#121316"/><circle cx="165" cy="282" r="18" fill="#9aa0ad"/><circle cx="435" cy="282" r="18" fill="#9aa0ad"/></svg></div>
           </div>
           <ol class="pasos">
             <li class="paso"><h3>Pides tu hora</h3><p>Por WhatsApp o teléfono, cuando te acomode.</p></li>
